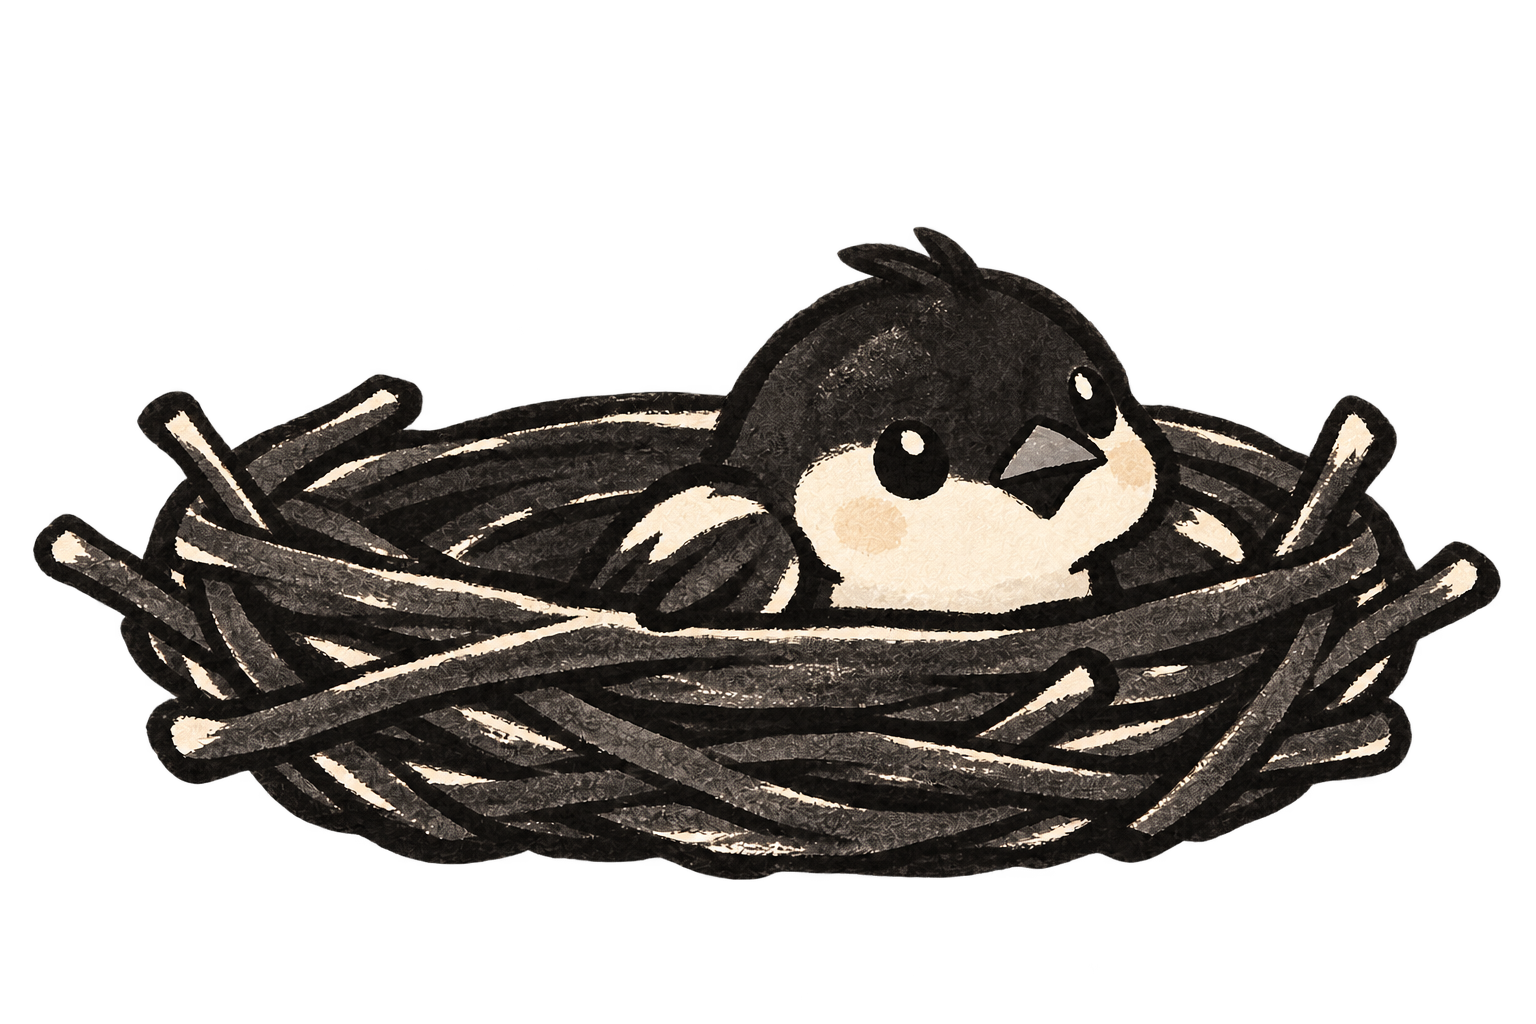
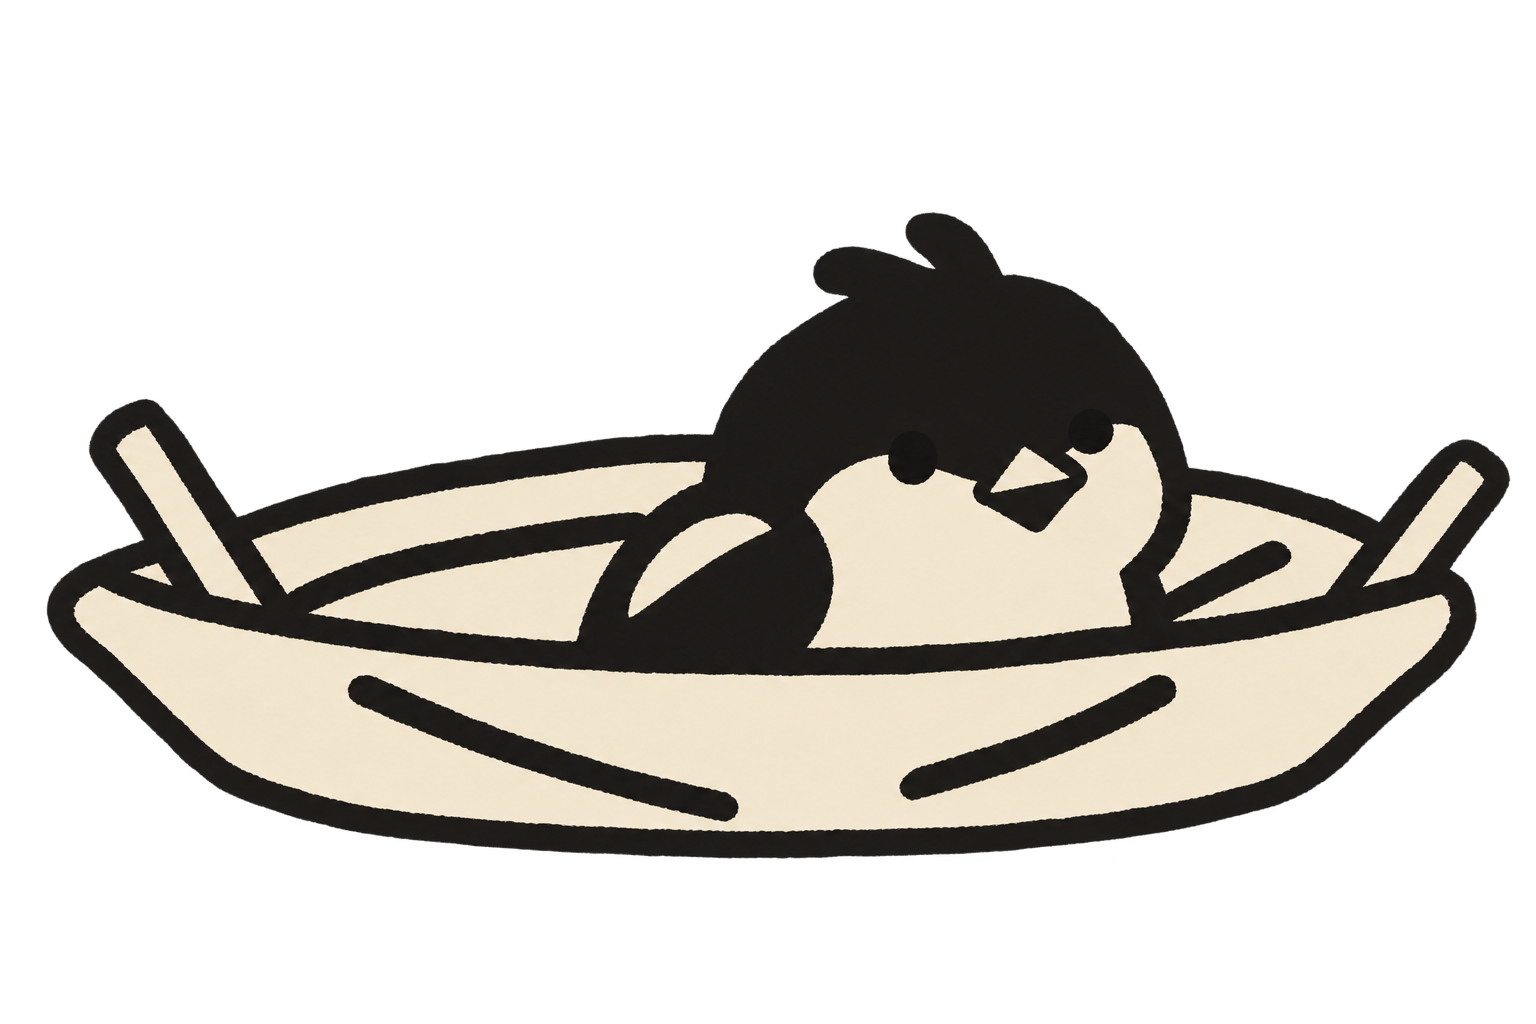
fix(art): 까치 둥지를 기존 낙서 그림체로 단순화
기존 삿갓과 종이배를 기준으로 잔가지와 깃털 묘사를 줄이고 검정·한지색 큰 면을 사용한다. 원화 크기와 GUID, 장착 좌표를 유지한다.

분신 표시 검사는 LateUpdate 갱신을 제한 시간 안에서 기다리도록 보완했다. 한국어·영어·일본어 꾸미기와 실제 플레이 착용 검사를 통과했다.

Changed region(s): [[0.0, 0.1875, 1.0, 0.875]]

diff --git a/Assets/Editor/Tests/InkCosmeticPlayTests.cs b/Assets/Editor/Tests/InkCosmeticPlayTests.cs
@@ -58,7 +58,14 @@ namespace MukJump.EditorTests
                 var original = Object.FindFirstObjectByType<PlayerController>();
                 var clone = Object.Instantiate(original.gameObject); clone.GetComponent<PlayerController>().ConfigureAsClone(3f);
                 clone.transform.position = original.transform.position + Vector3.right * 1.2f;
-                yield return null;
+                Assert.That(clone.GetComponent<PlayerController>().IsRuntimeClone, Is.True);
+                Assert.That(RunGrowthController.Instance.CloneSnapshot, Is.EqualTo(InkCosmeticCatalog.Tadpole));
+                // 복제 직후에는 원본 장식이 남는다. 실제 LateUpdate 표시 갱신을 기다린다.
+                var cloneView = clone.GetComponent<InkSkinView>();
+                var tail = InkCosmeticCatalog.Sprite(InkCosmeticCatalog.Tadpole);
+                float appearanceDeadline = Time.realtimeSinceStartup + 2f;
+                while (cloneView.AccessoryRenderer.sprite != tail && Time.realtimeSinceStartup < appearanceDeadline)
+                    yield return null;
                 Assert.That(original.GetComponent<InkSkinView>().AccessoryRenderer.sprite, Is.SameAs(InkCosmeticCatalog.Sprite(InkCosmeticCatalog.MagpieNest)));
                 Assert.That(clone.GetComponent<InkSkinView>().AccessoryRenderer.sprite, Is.SameAs(InkCosmeticCatalog.Sprite(InkCosmeticCatalog.Tadpole)));
                 Assert.That(RunGrowthController.Instance.LandingSnapshot, Is.EqualTo(InkCosmeticCatalog.BambooLeaf));

diff --git a/docs/design/wardrobe-cosmetics.md b/docs/design/wardrobe-cosmetics.md
@@ -42,5 +42,24 @@
 내장 이미지 생성 도구로 만든 투명 PNG 세 장을 `Assets/Resources/MukJump/Cosmetics/`에 보관한다. 가져오기 설정은 씬 빌더의 `ConfigureCosmeticSprites`가 관리한다. 외부 에셋을 다운로드하지 않았다.
 
 - 댓잎: 한 장의 가늘고 뾰족한 먹색 대나무 잎, 배경·다른 물체 없이 투명 배경.
-- 까치 둥지: 검정·한지색의 작은 까치 새끼와 낮고 둥근 나뭇가지 둥지, 거친 수묵 선, 투명 배경.
+- 까치 둥지: 검정·한지색의 작은 까치와 낮은 둥지. 기존 삿갓·종이배처럼 굵고 삐뚤한 외곽선, 큰 단색 면, 소수의 나뭇가지 표시만 사용한다. 점눈에는 반짝임을 넣지 않고 깃털·촘촘한 짜임·명암·얼룩 질감은 생략한다.
 - 먹 올챙이: 몸체 없이 짧게 굽은 먹색 꼬리만, 기존 먹의 실루엣·표정에 겹쳐 쓰는 투명 장식.
+
+### 까치 둥지의 단순화 기준
+
+2026-09-26 사용자의 기존 게임 스킨에 맞추라는 수정 요청을 반영했다. 그림체 기준은
+`skin-art-fit.md`이며 참조 원화는 `Skins/skin_bamboo_hat_v1.png`와
+`Skins/skin_paper_boat_v1.png`다. 고해상도는 유지하고 묘사만 줄인다.
+`Cosmetics/skin_magpie_nest_v1.png`의 1536×1024 투명 원화와 기존 GUID·장착 좌표를 유지한다.
+
+제작 모드는 내장 이미지 도구의 `style-transfer` 편집이다. 첫 편집은 복잡한 둥지 원화를
+기존 두 스킨의 적은 선·평평한 색면으로 다시 그리도록 지정했고, 최종 편집 프롬프트의 핵심 지시는 다음과 같다.
+
+> Keep the simplified magpie nest's composition, wide shallow bowl, few crooked twig marks,
+> one chick, canvas size, occupied area, silhouette and transparent background. Remove mottled
+> white grain inside the chick's head and wing; use flat warm near-black #1C1B1A. Replace grey
+> beak shading with one flat ivory triangle outlined in charcoal. Keep two tiny dot eyes,
+> broad ivory face/belly and bold slightly wobbly outlines. No feather detail, highlights,
+> gradients, lighting or paper texture. Keep slight irregularity only at outline edges,
+> matching the existing bamboo hat. Flat #EAE3D2 nest with the existing few thick twig strokes.
+> Actual PNG alpha transparency outside, no glow, shadows, additional objects, game body or text.
